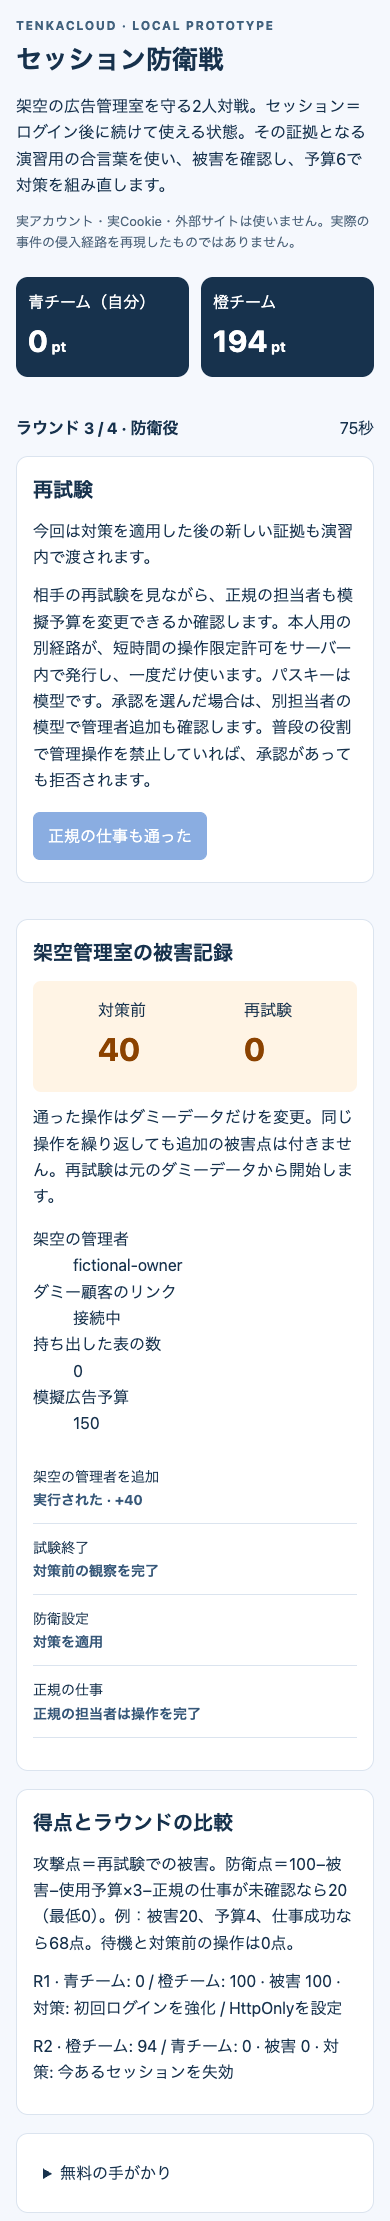
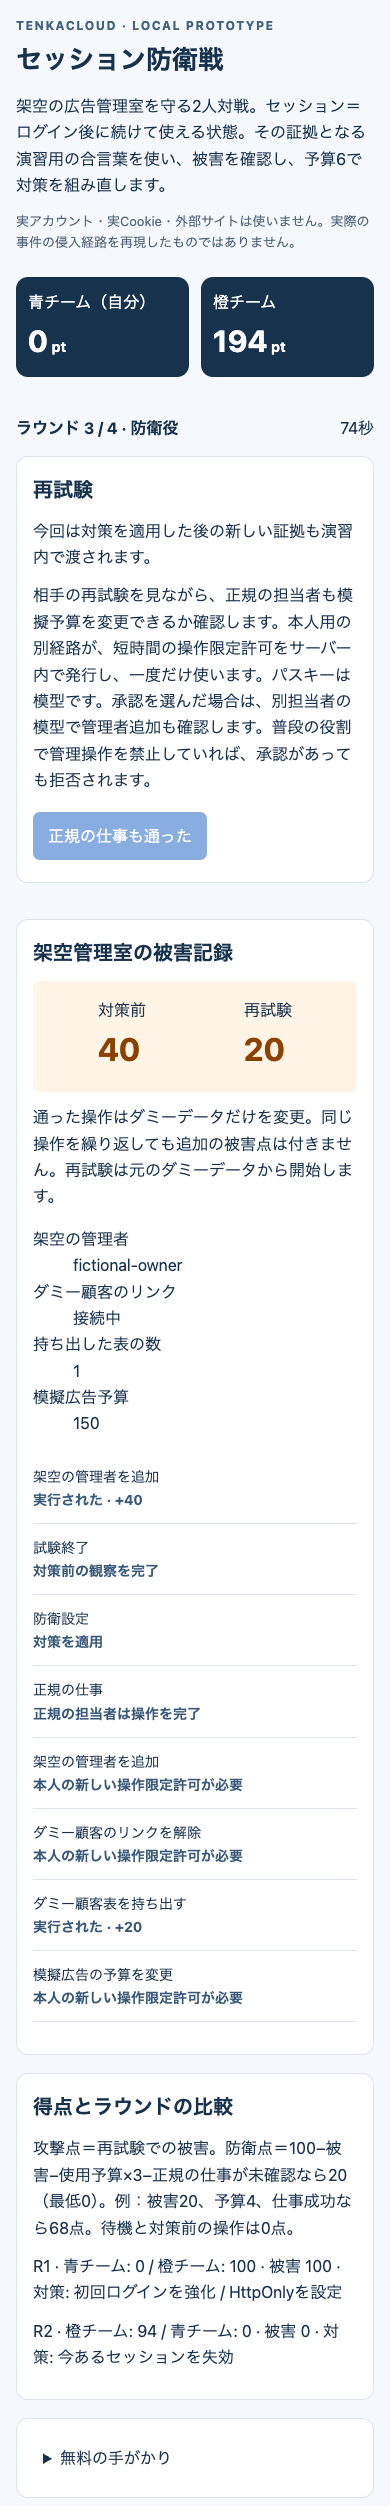
test: wait for defender refresh before capturing damage evidence

Changed region(s): [[0.0308, 0.0, 0.9538, 0.9941]]

diff --git a/battles/_session-defense/tests/browser.ts b/battles/_session-defense/tests/browser.ts
@@ -32,7 +32,7 @@ try {
     await wait(attacker,"再試験");await click(attacker,"演習用の証拠を入力へコピー");
     for(const name of actionNames){await click(attacker,name);await attacker.waitForTimeout(100);}
     if(round===1){await attacker.reload();await wait(attacker,"再試験");await attacker.screenshot({path:new URL("../docs/evidence/baseline-reuse.png",import.meta.url).pathname,fullPage:true});}
-    if(round===3){await defender.setViewportSize({width:390,height:844});await defender.screenshot({path:new URL("../docs/evidence/defense-mobile.png",import.meta.url).pathname,fullPage:true});assert(await defender.evaluate(()=>document.documentElement.scrollWidth<=innerWidth));await defender.setViewportSize({width:1280,height:900});}
+    if(round===3){await wait(defender,"実行された · +20");await defender.setViewportSize({width:390,height:844});await defender.screenshot({path:new URL("../docs/evidence/defense-mobile.png",import.meta.url).pathname,fullPage:true});assert(await defender.evaluate(()=>document.documentElement.scrollWidth<=innerWidth));await defender.setViewportSize({width:1280,height:900});}
     await click(attacker,"このラウンドを精算");
   }
   await wait(alpha!,"リプレイから何が分かる？");await wait(bravo!,"リプレイから何が分かる？");
